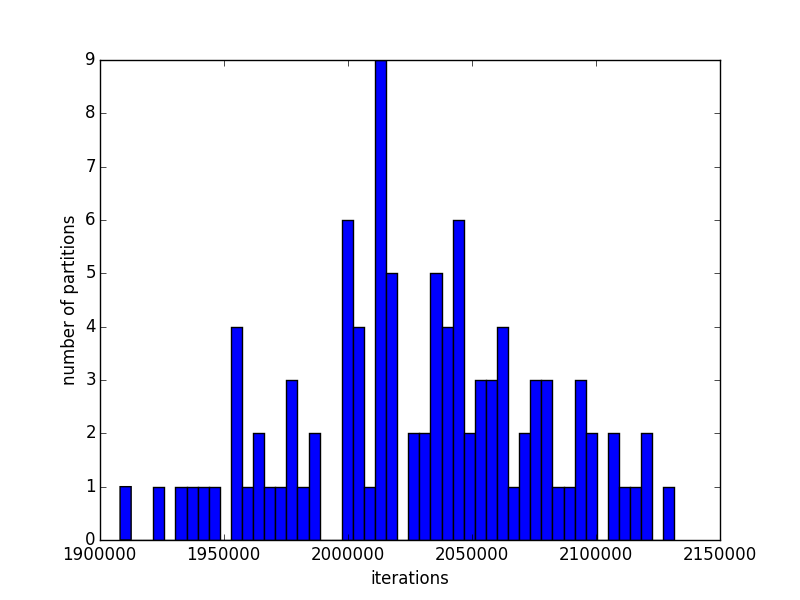
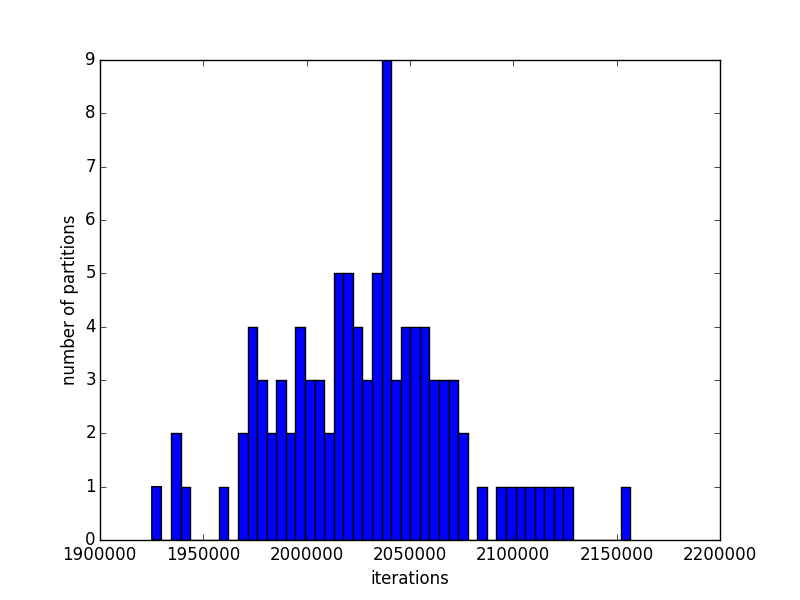
done polishing everything except number 5

Changed region(s): [[0.125, 0.09, 0.8438, 0.93], [0.875, 0.9, 0.9062, 0.93]]

diff --git a/HW1/P6/P6.py b/HW1/P6/P6.py
@@ -9,7 +9,7 @@ sc = pyspark.SparkContext()
 # make pyspark shut up
 sc.setLogLevel('WARN')
 
-
+# returns [(Word3a, Count3a), (Word3b, Count3b), ...] given list of repeated words
 def getCounts(lst):
 	dct = {}
 	result = []
@@ -22,6 +22,7 @@ def getCounts(lst):
 		result.append((word, dct[word]))
 	return result
 
+# randomly picks a third word based on counts of each
 def getNextWord(word1, word2, rdd):
 	lstOfCounts = rdd.lookup((word1, word2))[0]
 	words = [word for (word, count) in lstOfCounts]
@@ -39,8 +40,10 @@ indexed_lines = lines.zipWithIndex()
 start = 173
 end = 124368
 
+# skip metadata text
 shakespeare_lines = indexed_lines.filter(lambda (u,v): v > start and v < end)
 words = shakespeare_lines.keys().flatMap(lambda line: line.split())
+# filter according to conditions
 filtered_words = words.filter(lambda word: not(word.isdigit())\
  					and not(word.isalpha() and word.isupper())\
  					and not(word[:-1].isalpha() and word[:-1].isupper and word[-1] == '.'))

diff --git a/HW1/P2/P2b.py b/HW1/P2/P2b.py
@@ -4,14 +4,19 @@ from P2 import *
 import findspark
 findspark.init()
 import pyspark
+import random
 
-sc = pyspark.SparkContext(appName="Spark2a")
+sc = pyspark.SparkContext(appName="Spark2b")
+
+# make pyspark shut up
+sc.setLogLevel('WARN')
 
 imagei = sc.parallelize([x for x in range(2000)], 10)
 image = imagei.cartesian(imagei)
 
 mandelbrots = image.map(lambda (i,j): ((i, j), mandelbrot(j/500.0 - 2, i/500.0 - 2)))
-mandelbrots_repartitioned = mandelbrots.partitionBy(100, lambda (i,j): int(np.random.uniform(0, 100)))
+# repartition randomly
+mandelbrots_repartitioned = mandelbrots.partitionBy(100, lambda _: random.randint(0, 99))
 
 iterations_by_partition = sum_values_for_partitions(mandelbrots_repartitioned).collect()
 plt.hist(iterations_by_partition, 50)

diff --git a/HW1/P3/P3.py b/HW1/P3/P3.py
@@ -3,15 +3,20 @@ findspark.init()
 import pyspark
 sc = pyspark.SparkContext()
 
+# make pyspark shut up
+sc.setLogLevel('WARN')
+
 wlist = sc.textFile("EOWL_words.txt")
 
+# for each word, generate sorted characters as key and list containing the original word as value
 sorted_wlist_key_values = wlist.map(lambda word: (''.join(sorted(word)), [word]))
+# stitch all list values for the same sorted key
 sorted_wlist_reduced = sorted_wlist_key_values.reduceByKey(lambda x, y: x+y)
 
-output = sorted_wlist_reduced.mapValues(lambda lst: (len(lst), lst))
+output = sorted_wlist_reduced.mapValues(lambda lst: (len(lst), lst)).map(lambda (u, v): (u, v[0], v[1]))
 
 def maxValue(x, y):
-	if x[1][0] > y[1][0]:
+	if x[1] > y[1]:
 		return x
 	else:
 		return y

diff --git a/HW1/P5/P5.py b/HW1/P5/P5.py
@@ -103,9 +103,6 @@ Harvard_Id = Harvard_University[0][0]  # extract node id
 
 shortest_paths_from_Kevin_to_Harvard = shortest_paths(Kevin_Id, Harvard_Id, graph)
 print get_names_from_ids(shortest_paths_from_Kevin_to_Harvard, page_names)
-# print
-# print "BALLALALALALALALALAALALALALALAA"
-# print
 shortest_paths_from_Harvard_to_Kevin = shortest_paths(Harvard_Id, Kevin_Id, graph)
 print get_names_from_ids(shortest_paths_from_Harvard_to_Kevin, page_names)
 

diff --git a/HW1/P4/P4.py b/HW1/P4/P4.py
@@ -34,9 +34,8 @@ def bfs(root, graph):
 sc = pyspark.SparkContext()
 
 # make pyspark shut up
-logger = sc._jvm.org.apache.log4j
-logger.LogManager.getLogger("org"). setLevel( logger.Level.ERROR )
-logger.LogManager.getLogger("akka").setLevel( logger.Level.ERROR )
+sc.setLogLevel('WARN')
+
 
 source = sc.textFile("source.csv", N)
 # take care of formatting, end up with tuple of (comic, character)

diff --git a/HW1/P2/P2a.py b/HW1/P2/P2a.py
@@ -7,6 +7,9 @@ import pyspark
 
 sc = pyspark.SparkContext(appName="Spark2a")
 
+# make pyspark shut up
+sc.setLogLevel('WARN')
+
 imagei = sc.parallelize([x for x in range(2000)], 10)
 image = imagei.cartesian(imagei)
 
